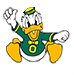
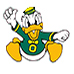
created oregon.py version for Molly

diff --git a/oregon.py b/oregon.py
@@ -41,19 +41,12 @@ def background():
 ###################################
 # Image Setup
 ###################################
-pickImage = random.randint(1,6)
+pickImage = random.randint(1,2)
 if pickImage == 1:
-  image = Image.open("/logos/flyingpig.jpg").convert('RGB')
+  image = Image.open("/oregon/OregonDuck.jpg").convert('RGB')
 elif pickImage == 2:
-  image = Image.open("/logos/elephant.jpg").convert('RGB')
-elif pickImage == 3:
-  image = Image.open("/logos/phishbow.jpg").convert('RGB')
-elif pickImage == 4:
-  image = Image.open("/logos/unicorn2.jpg").convert('RGB')
-elif pickImage == 5:
-  image = Image.open("/logos/kong.jpg").convert('RGB')  
-else:
-  image = Image.open("/logos/mustanglogo2.jpg").convert('RGB')
+  image = Image.open("/oregon/OregonDuck2.jpg").convert('RGB')
+
   
 #image = image.rotate(180)
 image = image.resize((40,40))
